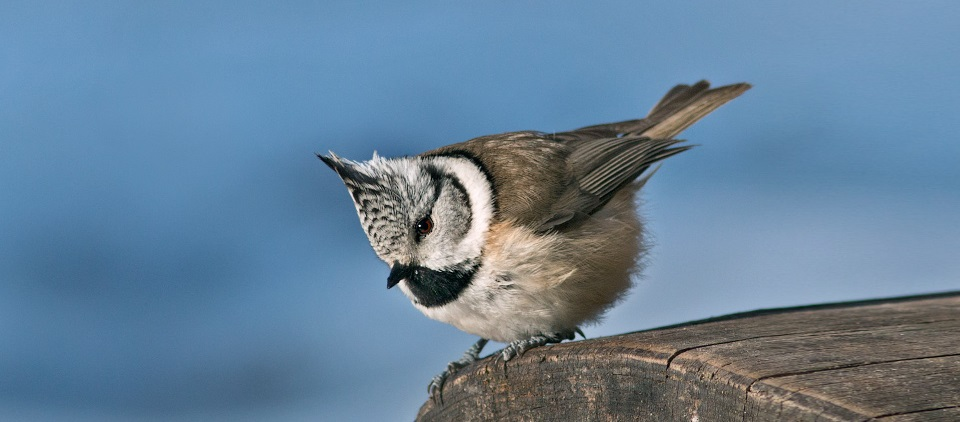
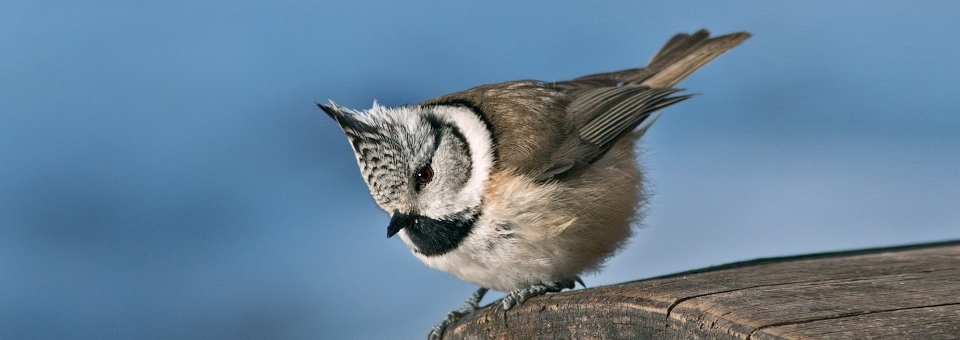
feat: add share btns

Changed region(s): [[0.3125, 0.0882, 1.0, 1.0], [0.25, 0.9706, 0.3125, 1.0], [0.0, 0.9706, 0.0312, 1.0]]

diff --git a/scenes/GameResult/GameResult.js b/scenes/GameResult/GameResult.js
@@ -2,6 +2,7 @@ import Form from '../../components/Form/Form';
 import winImg from '../../public/img/win.jpg';
 import { LangContext } from '../../translation/LangContext';
 import styles from './GameResult.module.scss';
+import { FacebookShareButton, FacebookIcon, RedditShareButton, RedditIcon, TelegramShareButton, TelegramIcon, TwitterShareButton, TwitterIcon, PinterestShareButton, PinterestIcon } from 'next-share';
 import Head from 'next/head';
 import Image from 'next/image';
 import Link from 'next/link';
@@ -11,25 +12,60 @@ import { useContext } from 'react';
 
 const GameResult = ({ score }) => {
   const value = useContext(LangContext);
-  const { congratulations, resultPart1, resultPart2 } = value.dictionary;
+  const { congratulations, resultPart1, resultPart2, resultPart3, shareResult } = value.dictionary;
 
   return (
     <>
       <div className={styles.container}>
         <h1 className={styles.leadText}>{congratulations}</h1>
         <p className={styles.resultText}>
-          {resultPart1} {score} {resultPart2}
+          {resultPart1} {score} {resultPart3}
         </p>
+        <p className={styles.resultText}>
+          {shareResult}
+        </p>
+        <div className={styles.shareBtnContainer}>
+        <FacebookShareButton
+          url={'https://next-js-gamma-nine.vercel.app/'}
+          quote={`${resultPart2}${score}${resultPart3}`}
+          hashtag={'#songbird'}>
+          <FacebookIcon size={48} round />
+        </FacebookShareButton>
+        <RedditShareButton
+          url={'https://next-js-gamma-nine.vercel.app/'}
+          quote={`${resultPart2}${score}${resultPart3}`}
+          hashtag={'#songbird'}>
+          <RedditIcon size={48} round />
+        </RedditShareButton>
+        <TelegramShareButton
+          url={'https://next-js-gamma-nine.vercel.app/'}
+          quote={`${resultPart2}${score}${resultPart3}`}
+          hashtag={'#songbird'}>
+          <TelegramIcon size={48} round />
+        </TelegramShareButton>
+        <TwitterShareButton
+          url={'https://next-js-gamma-nine.vercel.app/'}
+          quote={`${resultPart2}${score}${resultPart3}`}
+          hashtag={'#songbird'}>
+          <TwitterIcon size={48} round />
+        </TwitterShareButton>
+        <PinterestShareButton
+          url={'https://next-js-gamma-nine.vercel.app/'}
+          quote={`${resultPart2}${score}${resultPart3}`}
+          hashtag={'#songbird'}>
+          <PinterestIcon size={48} round />
+        </PinterestShareButton>
+        </div>
         <hr className={styles.hr} />
         <Image
           src={winImg}
           width={960}
-          height={422}
+          height={340}
           alt="win"
           placeholder="blur"
         />
         <hr className={styles.hrDark} />
-        <Form score={score} />
+        <Form score={score} />        
       </div>
     </>
   );

diff --git a/pages/api/auth/[...nextauth].js b/pages/api/auth/[...nextauth].js
@@ -1,6 +1,7 @@
 import NextAuth from 'next-auth';
 import GithubProvider from 'next-auth/providers/github';
 import GoogleProvider from 'next-auth/providers/google';
+import FacebookProvider from "next-auth/providers/facebook";
 
 export default NextAuth({
   providers: [
@@ -12,6 +13,10 @@ export default NextAuth({
       clientId: process.env.NEXT_PUBLIC_GOOGLE_ID,
       clientSecret: process.env.NEXT_PUBLIC_GOOGLE_SECRET,
     }),
+    FacebookProvider({
+      clientId: process.env.NEXT_PUBLIC_FACEBOOK_CLIENT_ID,
+      clientSecret: process.env.NEXT_PUBLIC_FACEBOOK_CLIENT_SECRET
+    })
   ],
   theme: {
     colorScheme: "dark",

diff --git a/scenes/Scoreboard/Scoreboard.module.scss b/scenes/Scoreboard/Scoreboard.module.scss
@@ -32,6 +32,26 @@
   padding: 0;
   margin: 0;
   margin-bottom: 40px;
+  max-height: calc(100vh - 400px);
+  min-height: 200px;
+}
+
+.list::-webkit-scrollbar-track {
+  box-shadow: inset 0 0 6px rgba(0,0,0,0.3);
+  border-radius: 10px;
+  background-color: #F5F5F5;
+}
+
+.list::-webkit-scrollbar {
+  width: 12px;
+  border-radius: 10px;
+  background-color: #F5F5F5;
+}
+
+.list::-webkit-scrollbar-thumb {
+  border-radius: 10px;
+  box-shadow: inset 0 0 6px rgba(0,0,0,.3);
+  background-color: $medium-green-color;
 }
 
 .date,

diff --git a/pages/scoreboard.js b/pages/scoreboard.js
@@ -11,7 +11,7 @@ export const getServerSideProps = async () => {
     return { notFound: true };
   }
   return {
-    props: { scores: data.result.sort((a, b) => (a.score < b.score ? 1 : -1))},
+    props: { scores: data.result.sort((a, b) => (a.score < b.score) ? 1 : (a.score === b.score) ? ((a._createdAt < b._createdAt) ? 1 : -1) : -1 )},
   };
 };
 

diff --git a/scenes/GameResult/GameResult.module.scss b/scenes/GameResult/GameResult.module.scss
@@ -21,7 +21,7 @@
   font-size: $font-size-l;
   font-weight: 300;
   margin: 0;
-  margin-bottom: 40px;
+  margin-bottom: 20px;
 }
 
 .hr {
@@ -52,6 +52,12 @@
   &:active {
     box-shadow: 0 3px 6px 0 rgba(0, 0, 0, 0.5);
   }
+}
+
+.shareBtnContainer {
+  display: flex;
+  justify-content: center;
+  gap: 20px
 }
 
 @media (max-width: 470px) {
